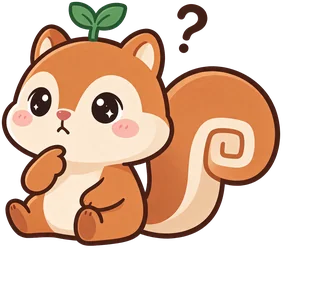
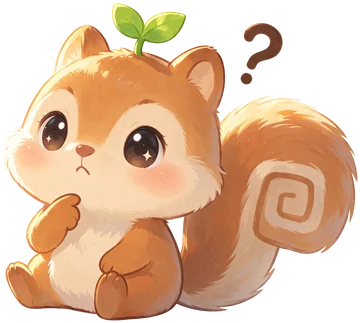
Repaint the squirrel and its room in a soft anime style
The flat sticker squirrel did not sit in the same layer as the painted
pet room. All six poses (wave, cheer, think, shy, stash, sleep) are
redrawn as the same chibi squirrel in a soft Japanese anime "healing"
style: thin soft line art, painterly fur, warm upper-left light with a
rim light. The tree-hollow room is repainted to match, with light rays
and airy colours. File names are unchanged, so home, the centre tab,
the actions ring and the empty states all pick up the new look.

The squirrel on the pet page gets a soft contact shadow on its
cushion. DESIGN.md mascot and pet-room notes updated; service worker
v41.

diff --git a/sw.js b/sw.js
@@ -1,5 +1,5 @@
 // No API bodies, keys, account data or generated responses enter a cache.
-const CACHE='knowledge-review-shell-v40';
+const CACHE='knowledge-review-shell-v41';
 const SHELL=['/','/m/','/m/mobile.css','/styles.css','/app.js','/chat-ui.js','/chat-store.js','/providers.js','/knowledge-ui.js','/knowledge-store.js','/review-ui.js','/review-store.js','/device-ui.js','/cloud-ui.js','/model-help.js','/local-space.js','/snapshot-merge.js','/auth.js','/auth-ui.js','/admin-ui.js','/modules.js','/module-icons.js','/discover-ui.js','/recommend-data.js','/starter-content.js','/habit.js','/pet.js','/fsrs.js','/onboarding.js','/tour.js','/square-ui.js','/i18n.js','/i18n/zh-TW.js','/i18n/ja.js','/i18n/ko.js','/i18n/ms.js','/i18n/es.js','/i18n/fr.js','/i18n/pt.js','/i18n/de.js','/memory-viz.js','/memory-ui.js','/docx.js','/google-docs.js','/graph-view.js','/mindmap.js','/viz-edit.js','/theme.js','/fonts/SmileySans-Oblique.woff2','/illustrations/home-desk.webp','/illustrations/pet-nest.webp','/illustrations/home-hero.webp','/illustrations/review-hero.webp','/illustrations/mascot-wave.webp','/illustrations/mascot-think.webp','/illustrations/mascot-cheer.webp','/illustrations/mascot-sleep.webp','/illustrations/mascot-shy.webp','/illustrations/mascot-stash.webp','/illustrations/icon-coding.webp','/illustrations/icon-english.webp','/illustrations/icon-work.webp','/illustrations/icon-life.webp'];
 self.addEventListener('install',event=>event.waitUntil(caches.open(CACHE).then(cache=>cache.addAll(SHELL)).then(()=>self.skipWaiting())));
 self.addEventListener('activate',event=>event.waitUntil(caches.keys().then(keys=>Promise.all(keys.filter(key=>key!==CACHE).map(key=>caches.delete(key)))).then(()=>self.clients.claim())));

diff --git a/mobile/mobile.css b/mobile/mobile.css
@@ -278,3 +278,7 @@ button.pet-tile{cursor:pointer}
 [data-theme="dark"] .pet-meter{background:#ffffff1a}
 .pet-scene-wrap .m-hello h1{text-shadow:0 0 14px #fbf7f0,0 0 4px #fbf7f0}
 [data-theme="dark"] .pet-scene-wrap .m-hello h1{text-shadow:0 1px 10px #000c}
+/* The pet-page squirrel sits on the cushion: a soft contact shadow under it ties it into the painted room. */
+.pet-mascot{filter:none}
+.pet-mascot::before{content:"";position:absolute;left:14%;right:14%;bottom:2px;height:18px;border-radius:50%;background:radial-gradient(closest-side,rgba(70,48,24,.32),rgba(70,48,24,0));z-index:-1;pointer-events:none}
+[data-theme="dark"] .pet-mascot::before{background:radial-gradient(closest-side,rgba(0,0,0,.5),rgba(0,0,0,0))}

diff --git a/DESIGN.md b/DESIGN.md
@@ -49,7 +49,7 @@ elevation:
 - **No white cards** (2026-11-14): sections, lists, settings groups, knowledge cards, forms and the home module row sit straight on the canvas, separated by spacing and a 1px `--divider` line (warm `rgba(86,64,32,.12)`, night `rgba(255,255,255,.08)`). Surfaces stay only on inputs, buttons, chips, selectable options, dialogs and popovers, chat bubbles, the review answering card and consent notices.
 - **Radii**: floating chips 20px; buttons and chips stay full pills.
 - **One scene per page.** Phone home: a first-person desk scene (`illustrations/home-desk.webp`, soft realistic 3D, 9:16) fills the top of the screen behind a transparent header and fades into the canvas; the greeting, the large due count (76px/800, no card) with a small goal pill, and the main action sit on its calm wall; a frosted module panel rises over its faded bottom. Night mode dims the scene. Desktop home shows the clay island beside the greeting; review shows a small illustration beside its title.
-- **Mascot**: a flat chibi squirrel (apricot + cream, dark brown outline, green leaf sprout, cream knowledge card instead of a nut, tail curling into a rounded square "回" spiral; no clothes). Stickers `illustrations/mascot-{wave,think,cheer,sleep}.webp`: wave beside the phone home due count, cheer there once today's review is done and in the review "plan complete" state, think on the ask page and when there are no cards yet, sleep when nothing is due. Sources in `store-assets/libtv/mascot`. Keep it small and decorative; no speech bubbles with text. Never more than one large illustration per view.
+- **Mascot**: a chibi squirrel painted in a soft Japanese anime "healing" style since 2026-11-14 (thin soft brown line art, painterly fur, warm upper-left light with a rim light, so it sits inside the painted pet room; earlier it was a flat sticker) (apricot + cream, green leaf sprout, cream knowledge card instead of a nut, tail curling into a rounded square "回" spiral; no clothes). Stickers `illustrations/mascot-{wave,think,cheer,sleep}.webp`: wave beside the phone home due count, cheer there once today's review is done and in the review "plan complete" state, think on the ask page and when there are no cards yet, sleep when nothing is due. Sources in `store-assets/libtv/mascot`. Keep it small and decorative; no speech bubbles with text. Never more than one large illustration per view.
 - **Illustrations** live in `illustrations/*.webp` (transparent, made for 知回 in LibTV with Seedream; source PNGs and `convert.py` in `store-assets/libtv/ui`). Style: soft matte clay, rounded chunky shapes, warm studio light, palette cream / sage / 知回 green / warm wood / pale peach, no text or logos. They are decorative: `alt=""`, never carry information the text doesn't.
 - **Greeting** on home: 30px / 800 on the canvas, no card behind it.
 - **Main action** stays 知回 green (pill, 52px tall on phone, soft green shadow) — still one per view.
@@ -98,3 +98,4 @@ elevation:
 - Respect `prefers-reduced-motion`: no decorative animation.
 - **Squirrel actions** (phone home): a tap makes the squirrel hop; a long press (480 ms; Enter/Space on a keyboard) opens a ring of six round buttons (wave, cheer, think, shy, stash a card, sleep) around a larger copy of it in the middle of the screen; choosing one plays that pose with a short motion for about 3 s, then it returns to its usual pose. Actions trimmed from the dsh-pet desktop-pet reference to what fits a learning app; no food, dance or festival actions.
 - **Pet tab** (phone, phase 1, 2026-11-14): five tabs with the squirrel (named 小回 / Backy) as a raised round avatar in the middle; 发现 moved into 知识库 as a 知识库 | 推荐 | 广场 switch. The pet page follows the reference "healing pet" layout: its tree-hollow room (`illustrations/pet-nest.webp`) fills the top, the squirrel sits on the cushion in the middle (long press = actions ring), a status bubble and two chips (fed today, pine cones) float on the scene, a frosted 4-tile "little world" (store, feed, streak, shop - coming soon) and a daily note follow. Pine cones are computed from review history in `pet.js` (+1 per card first learned, +3 per goal day, +10 per 7th goal day in a row); nothing is stored, so they cannot be edited and survive device changes. The pet never gets ill; hungry only changes its pose and words. Currency icon: the inline flat pine-cone SVG (not 🌰). Ring buttons show emoji / the pine-cone icon.
+- **Pet room style**: `illustrations/pet-nest.webp` is a Japanese anime background painting (soft brushwork, light rays, airy fresh colors) that matches the anime squirrel; the squirrel gets a soft CSS contact shadow on the cushion.
